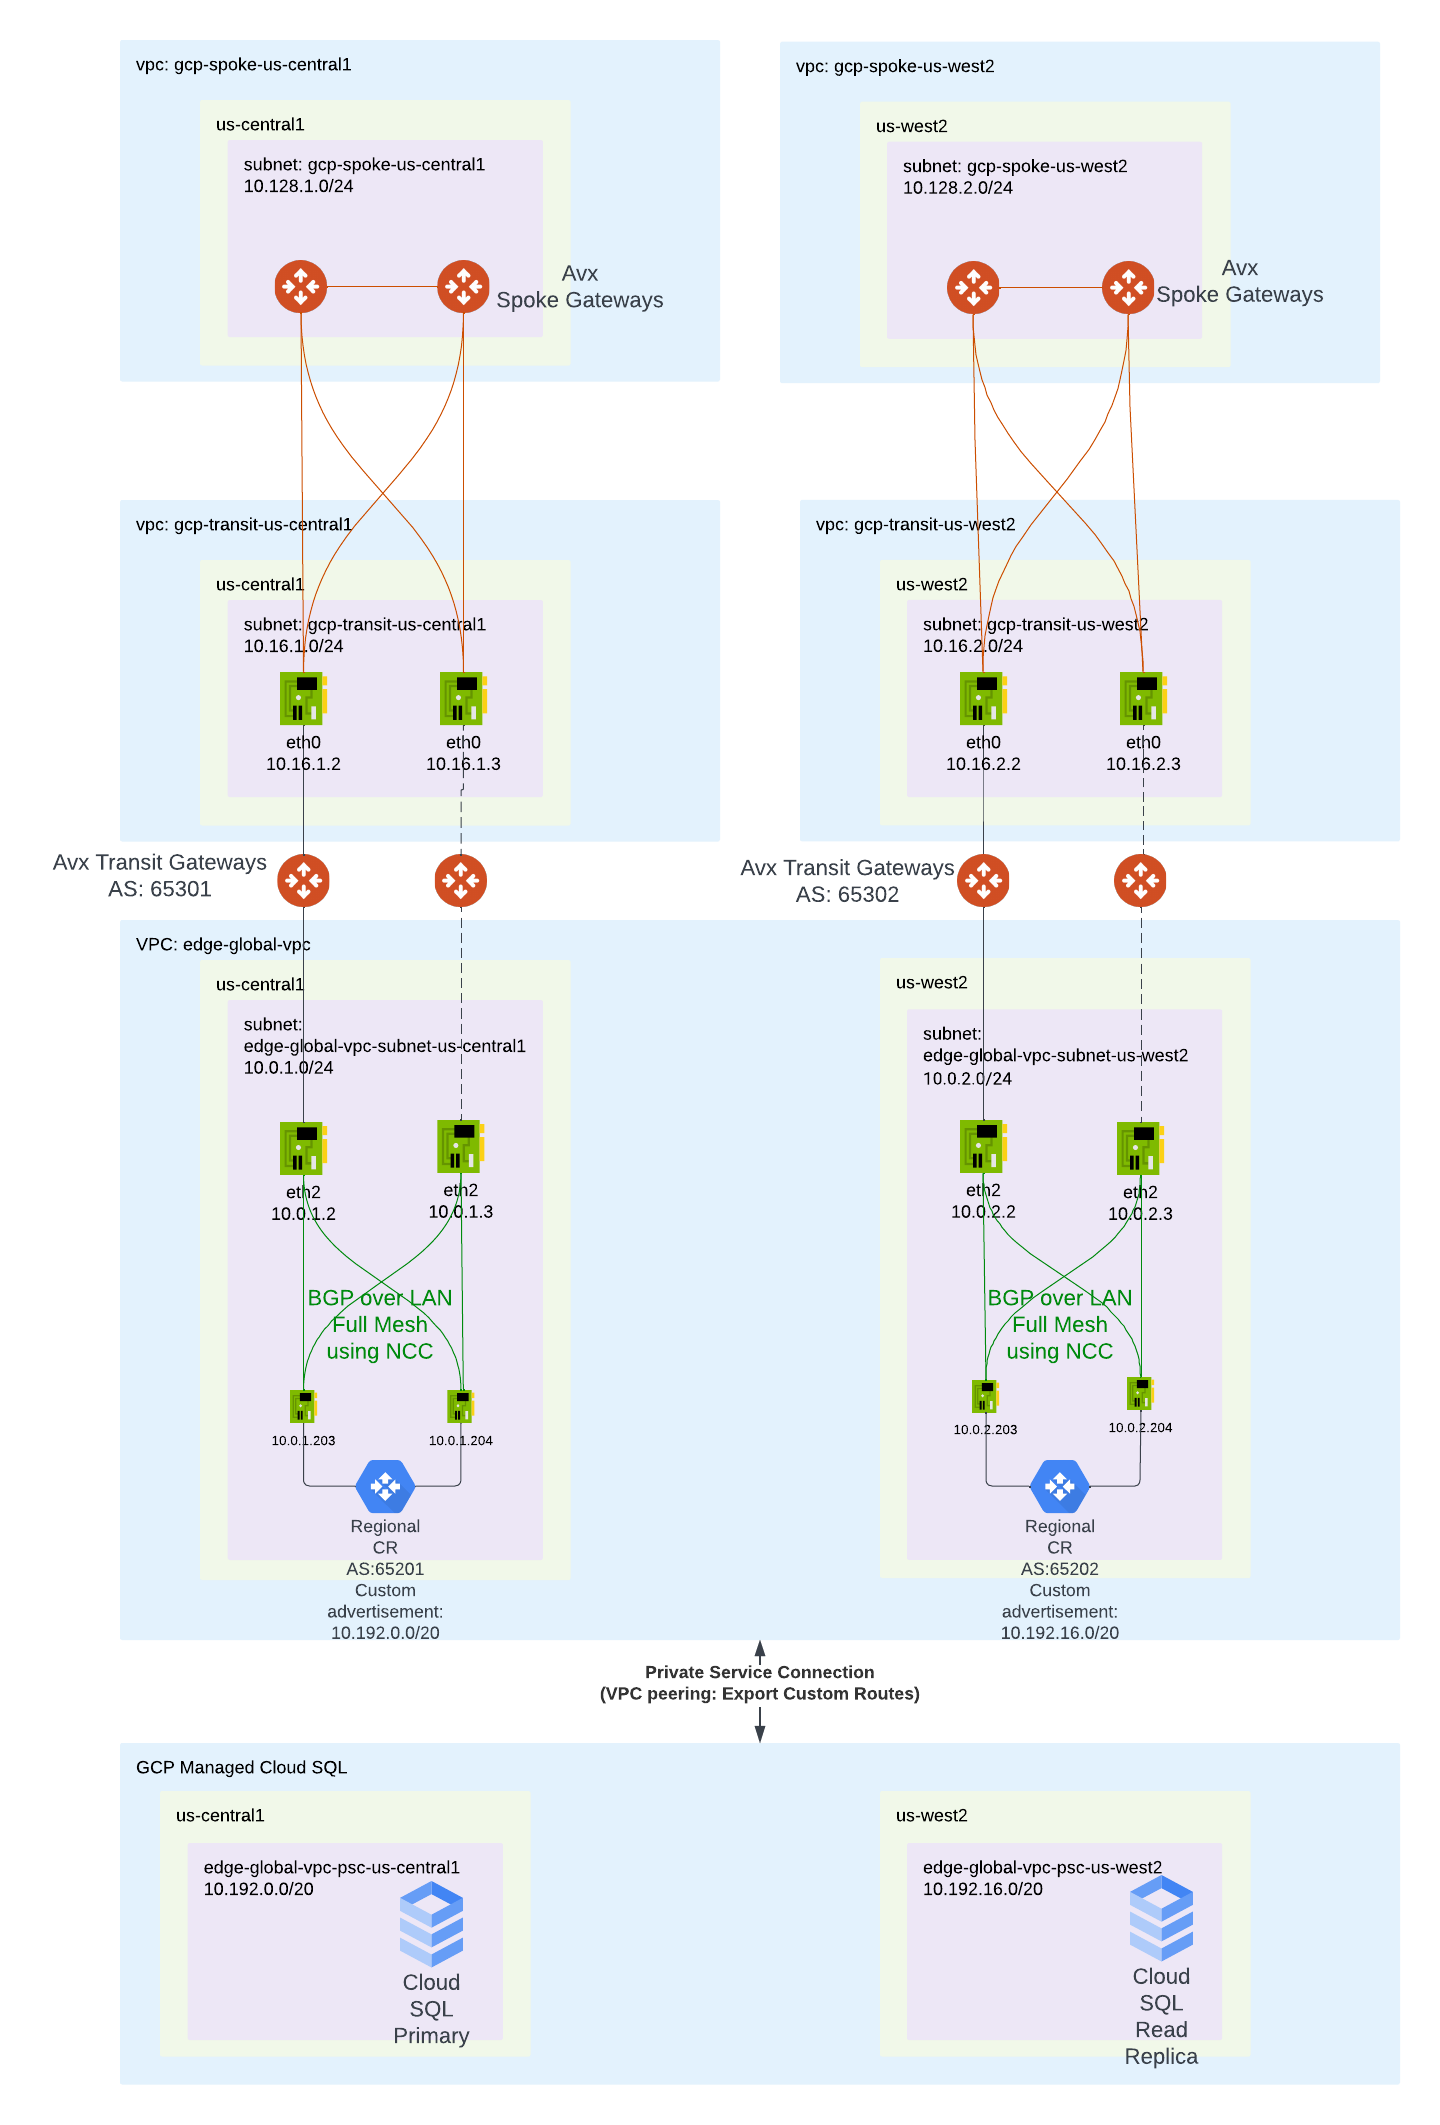
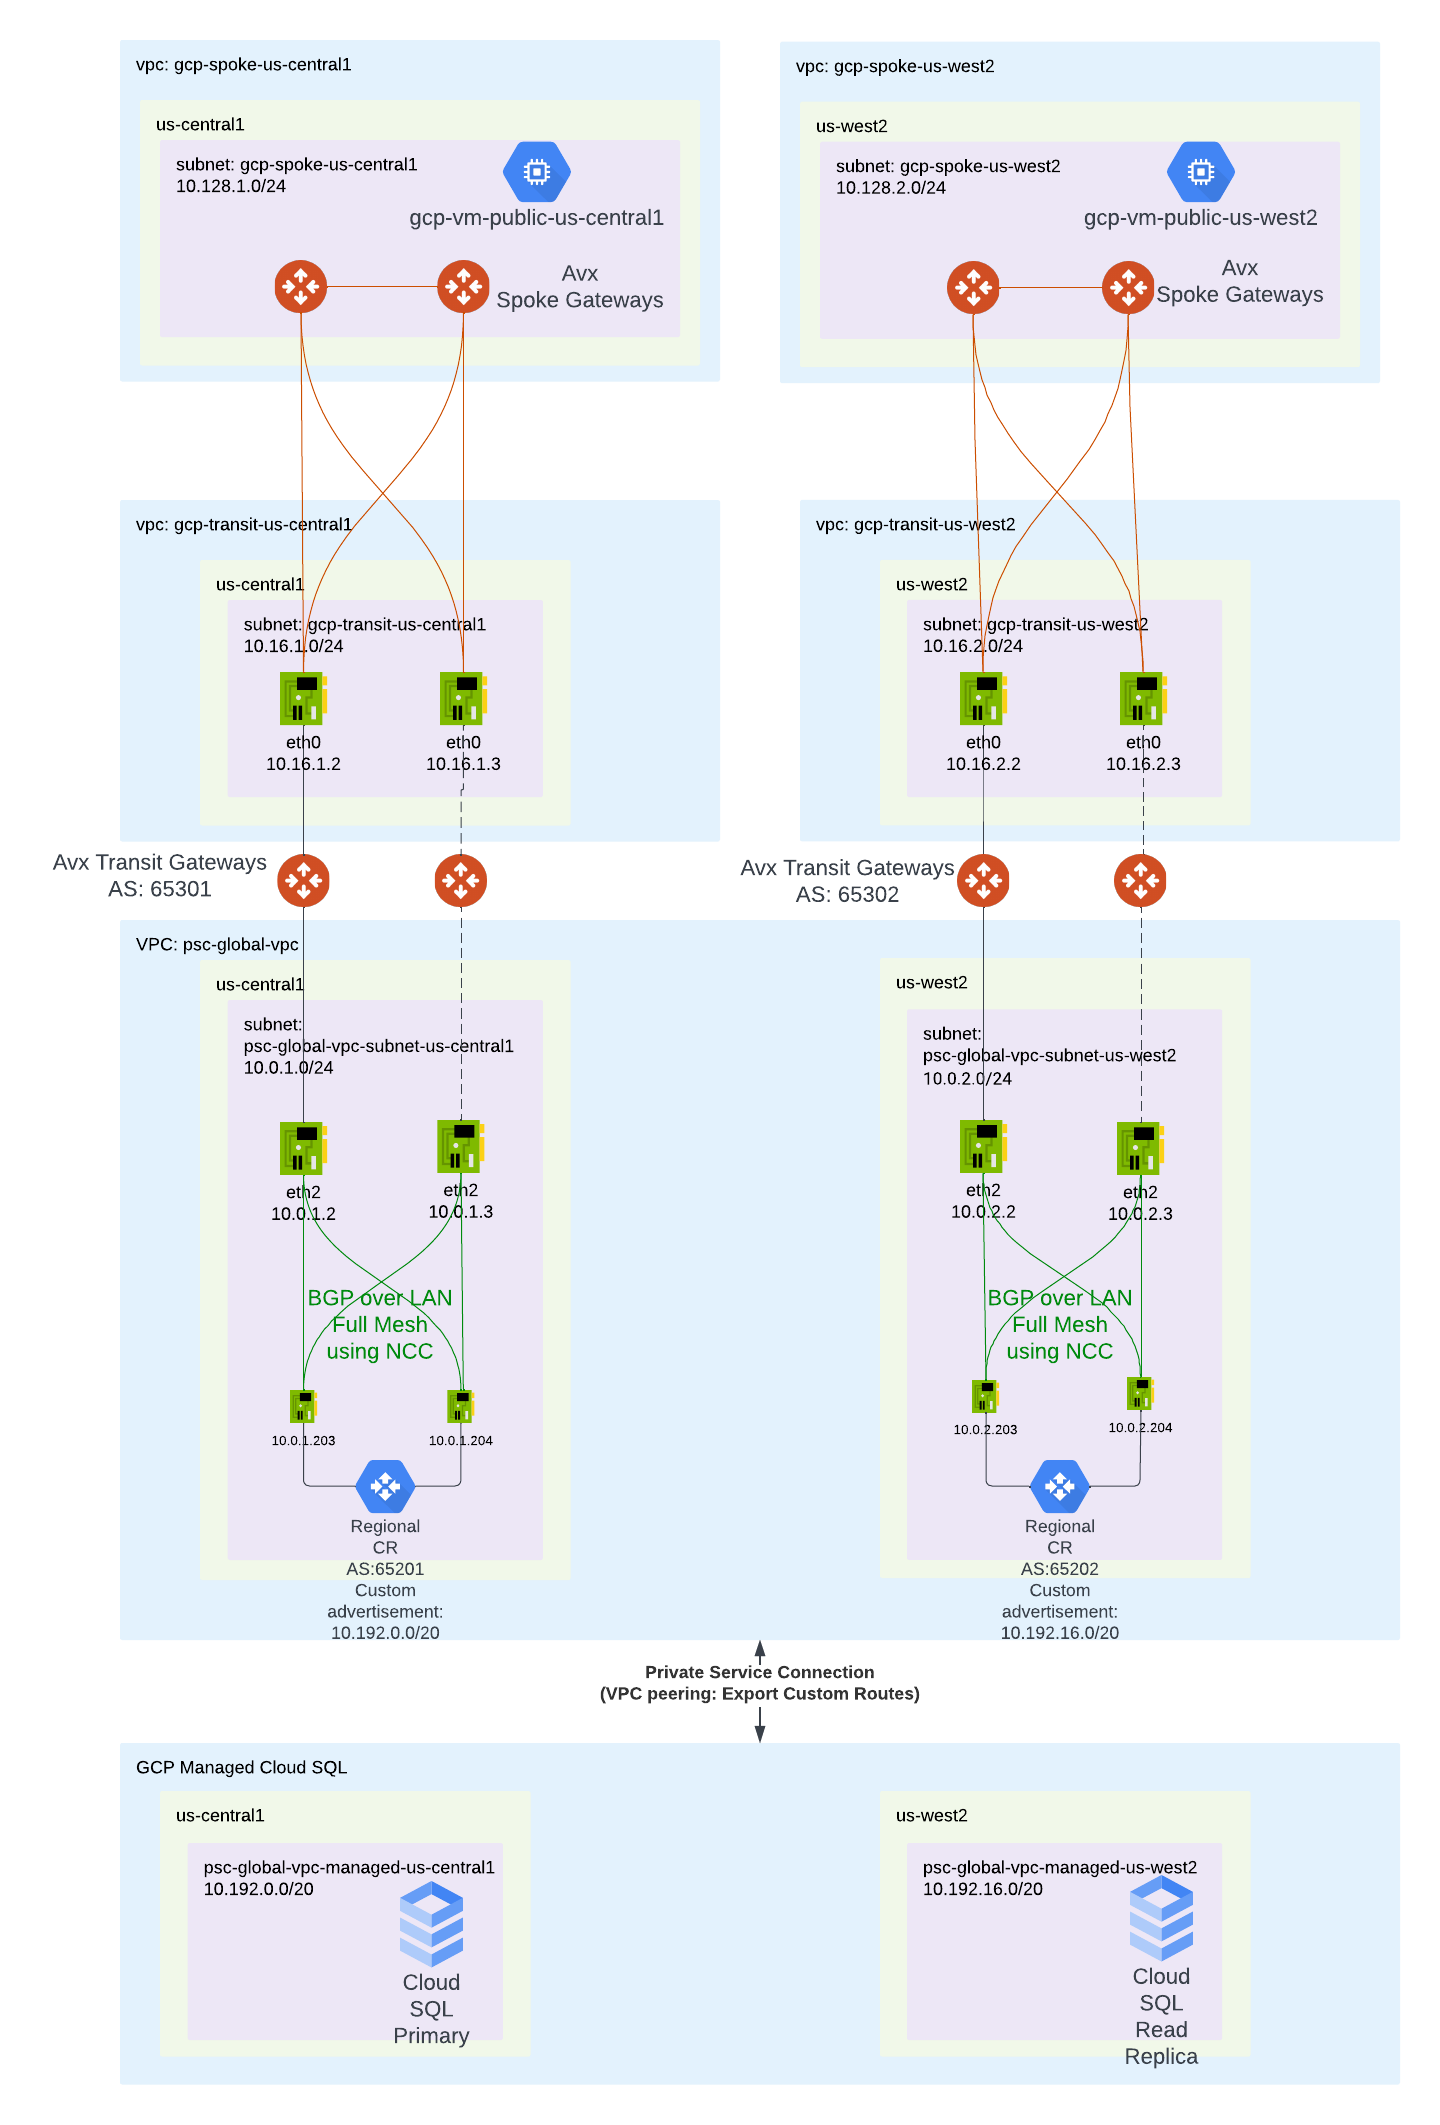
Replace edge with psc

diff --git a/readme.MD b/readme.MD
@@ -1,10 +1,10 @@
 # terraform-aviatrix-gcp-transit-bgp-over-lan-cloud-router
 - This terraform code will deploy two Aviatrix Spoke and Transits. 
-- Spokes and Transit VPC would only be in a single region
-- A edge-global-vpc will be deployed with subnets in different regions align with cloud SQL
-- Two IP ranges 10.192.0.0/20 and 10.192.16.0 will be allocated on edge-global-vpc to be consumed by Cloud SQL
-- Aviatrix Transit forms full mesh BGP over LAN connection with GCP Cloud Routers deployed in the same region in edge-global-vpc
-- Cloud Router perform custom advertisement of the allocated IP range towards corresponding Aviatrix Transit
+- Each Spoke and Transit VPC would only have one subnet in a single region
+- A psc-global-vpc will be deployed, within this VPC, subnets will be created in different regions align with cloud SQL instance region
+- Two IP ranges 10.192.0.0/20 and 10.192.16.0 will be allocated on psc-global-vpc to be consumed by Cloud SQL. Each IP range will be allocated to Cloud SQL instance in different regions.
+- Aviatrix Transit forms full mesh BGP over LAN connection with GCP Cloud Routers in the same region within psc-global-vpc
+- Cloud Router perform custom advertisement of the allocated IP range match SQL instance in the same region towards corresponding Aviatrix Transit
 - The private service connection export routes received by Cloud Router to GCP managed VPC for Cloud SQL
 - A primary and a read replica of Cloud SQL will be deployed aligned with the region of Aviatrix Transit.
 - spoke in us-central1 will only be able to talk to primary SQL instance in us-central1
